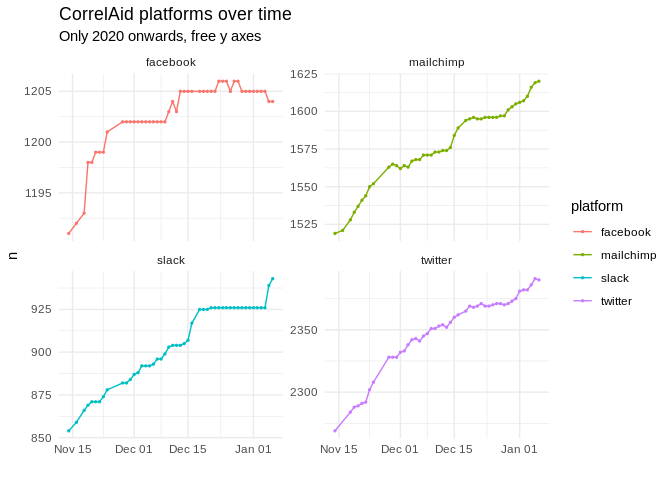
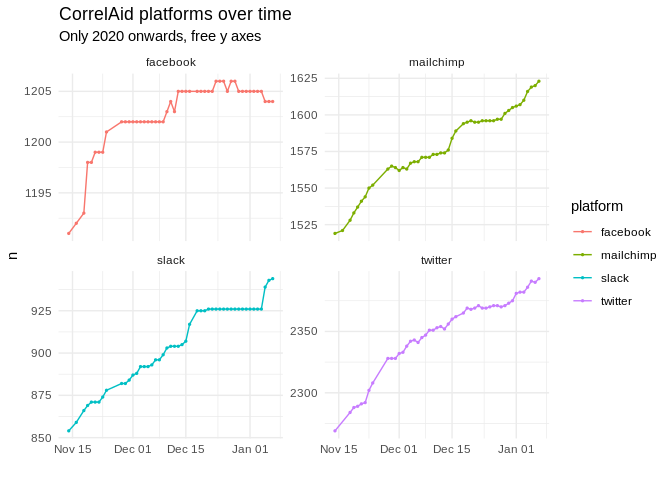
🤖 CRON - update daily data

diff --git a/README.md b/README.md
@@ -25,7 +25,7 @@ count and general network data on a daily basis using
 
 ### Plots
 
-*last updated*: 2021-01-06
+*last updated*: 2021-01-07
 23:50:13
 
 ![](README_files/figure-gfm/plot-alltime-1.png)<!-- -->
